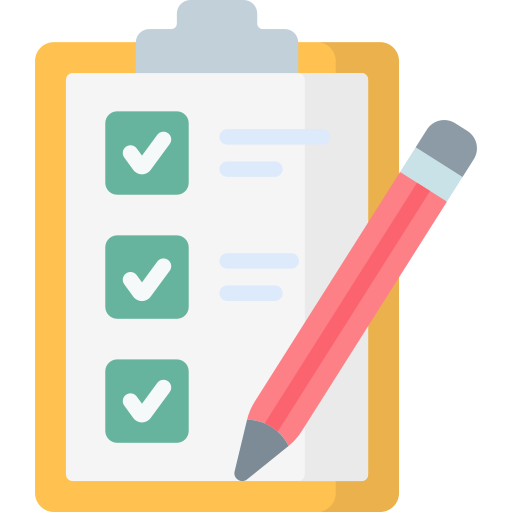
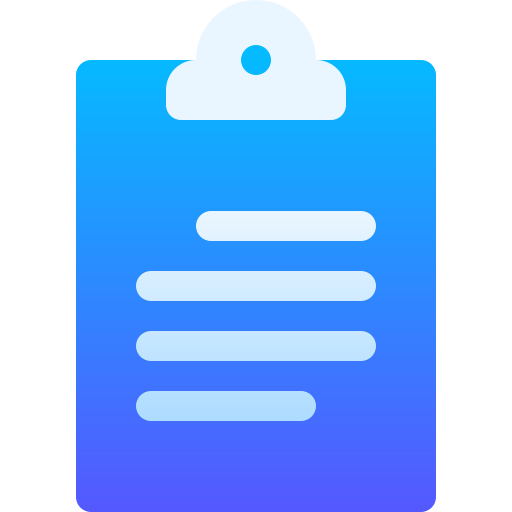
refact: cores e icones das telas exames e pets sofreram mudancas

diff --git a/src/app/exames/ExamesContent.tsx b/src/app/exames/ExamesContent.tsx
@@ -46,6 +46,7 @@ interface Veterinario {
   crv: string;
   id: string;
 }
+
 export function ExamesContent() {
   const [visualizarExames, setVisualizarExames] = useState(true);
   const [marcarExame, setMarcarExame] = useState(false);
@@ -136,8 +137,8 @@ export function ExamesContent() {
                   alt="prancheta"
                   unoptimized
                   src={prancheta}
-                  width={32}
-                  height={32}
+                  width={50}
+                  height={50}
                 />
                 <h1 className="text-2xl font-jetbrains">Exames</h1>
               </div>
@@ -146,34 +147,39 @@ export function ExamesContent() {
               </p>
             </div>
             <div className="flex flex-col gap-10">
-              <div className="w-2/3 flex items-center justify-center gap-5">
-                <InputComponent
-                  id="search"
-                  type="text"
-                  onchange={handleSearchExame}
-                  value={searchExame}
-                  maxLenght={11}
-                  label="Buscar Exames"
-                  placeholder="Digite o CPF do Tutor"
-                />
-                <button
-                  onClick={() => onClickSearchExame(searchExame)}
-                  className="py-2 px-4 flex items-center shadow-sm gap-2 mt-auto font-roboto bg-exames-color-600 rounded-xl text-white hover:bg-exames-color-800 active:bg-exames-color-500 transition-all"
-                >
-                  <FaSearch height={20} width={20} className="text-white" />
-                  <span className="text-nowrap">Pesquisar Exame</span>
-                </button>
-                <button
-                  onClick={onClickCleanSearchExame}
-                  className="py-2 px-4 flex items-center shadow-sm gap-2 mt-auto font-roboto bg-exames-color-600 rounded-xl text-white hover:bg-exames-color-800 active:bg-exames-color-500 transition-all"
-                >
-                  <FaTable height={20} width={20} className="text-white" />
-                  <span className="text-nowrap">Mostrar Todos os Exames</span>
-                </button>
+              <div className="w-full flex items-end justify-start gap-5">
+                <div className="w-1/3">
+                  <InputComponent
+                    id="search"
+                    type="text"
+                    onchange={handleSearchExame}
+                    value={searchExame}
+                    maxLenght={11}
+                    label="Buscar Exames"
+                    placeholder="Digite o CPF do Tutor"
+                  />
+                </div>
+
+                <div className="flex gap-4">
+                  <button
+                    onClick={() => onClickSearchExame(searchExame)}
+                    className="py-2 px-4 flex items-center shadow-sm gap-2 mt-auto font-roboto bg-exames-color-600 rounded-xl text-white hover:bg-exames-color-800 active:bg-exames-color-500 transition-all"
+                  >
+                    <FaSearch height={20} width={20} className="text-white" />
+                    <span className="text-nowrap">Pesquisar Exame</span>
+                  </button>
+                  <button
+                    onClick={onClickCleanSearchExame}
+                    className="py-2 px-4 flex items-center shadow-sm gap-2 mt-auto font-roboto bg-exames-color-600 rounded-xl text-white hover:bg-exames-color-800 active:bg-exames-color-500 transition-all"
+                  >
+                    <FaTable height={20} width={20} className="text-white" />
+                    <span className="text-nowrap">Mostrar Todos os Exames</span>
+                  </button>
+                </div>
               </div>
               <div className="flex bg-exames-color-600 rounded-md overflow-y-scroll p-4 gap-6 w-full flex-wrap max-h-96">
                 {activeSearch.trim() === ""
-                  ? examesArray
+                  ? [...examesArray]
                       .reverse()
                       .map((exames) => (
                         <ExameCard

diff --git a/src/app/pets/PetInfo.tsx b/src/app/pets/PetInfo.tsx
@@ -9,6 +9,7 @@ import pataBgDog from "../assets/images/pataBgDog.png";
 import pataBgGato from "../assets/images/pataBgGato.png";
 import dogProfile from "../assets/images/dogProfile.png";
 import catProfile from "../assets/images/gato.png";
+import { FaUserDoctor } from "react-icons/fa6";
 import { useRef, useState, type LegacyRef } from "react";
 import Image from "next/image";
 import lupaPet from "..//assets/images/lupaPet.png";
@@ -54,16 +55,16 @@ export function PetInfo({ petSelect, bottomDivRef }: PetInfoProps) {
       {/* Caso um pet esteja selecionado */}
       <div
         ref={bottomDivRef}
-        className={`${petSelect ? "bg-mascots-primary-600 p-6 rounded-lg shadow-lg" : "hidden"}`}
+        className={`${petSelect ? "bg-pets-color-300 p-6 rounded-lg shadow-lg" : "hidden"}`}
       >
         <div className="flex gap-6 items-start shadow-md rounded-lg px-4 py-5 bg-gray-100">
           <div
-            className={`${petSelect?.species === "Cachorro" ? "rounded-full mt-5 bg-mascots-primary-700 p-3" : "hidden"}`}
+            className={`${petSelect?.species === "Cachorro" ? "rounded-full mt-5 bg-pets-color-700 p-3" : "hidden"}`}
           >
             <Image alt="DogProfile" src={dogProfile} width={100} height={100} />
           </div>
           <div
-            className={`${petSelect?.species === "Gato" ? "rounded-full mt-5 bg-mascots-primary-700 p-3" : "hidden"}`}
+            className={`${petSelect?.species === "Gato" ? "rounded-full mt-5 bg-pets-color-700 p-3" : "hidden"}`}
           >
             <Image alt="catProfile" src={catProfile} width={100} height={100} />
           </div>
@@ -139,8 +140,8 @@ export function PetInfo({ petSelect, bottomDivRef }: PetInfoProps) {
           </div>
         </div>
         <div className="bg-gray-100 p-6 rounded-lg relative shadow-md mt-6 w-full">
-          <div className="flex  border-b-2 border-dashed border-mascots-primary-700 pb-2 mb-4 items-center gap-2">
-            <FaUser size={32} className="text-mascots-primary-800" />
+          <div className="flex  border-b-2 border-dashed border-pets-color-700 pb-2 mb-4 items-center gap-2">
+            <FaUser size={32} className="text-pets-color-600" />
             <h2 className="text-xl font-semibold text-gray-800">
               Informações do Tutor
             </h2>
@@ -199,14 +200,21 @@ export function PetInfo({ petSelect, bottomDivRef }: PetInfoProps) {
         <div className="w-full flex justify-around gap-10 mt-5">
           <Link
             href={"/consultas"}
-            className="px-5 py-3 flex items-center gap-1 bg-mascots-primary-800 hover:scale-105 max-w-fit text-gray-200 rounded-md font-semibold transition-all"
+            className="px-5 py-3 flex items-center gap-1 bg-mascots-primary-700 hover:bg-mascots-primary-800 hover:scale-105 max-w-fit text-white rounded-md font-semibold transition-all"
           >
-            <FaClipboardList size={24} />
+            <FaUserDoctor size={24} />
             Marcar Consulta
           </Link>
           <Link
+            href={"/exames"}
+            className="px-5 py-3 flex items-center gap-1 bg-exames-color-700 hover:bg-exames-color-800 hover:scale-105 max-w-fit text-white rounded-md font-semibold transition-all"
+          >
+            <FaClipboardList size={24} />
+            Prescrever Exame
+          </Link>
+          <Link
             href={"/internato"}
-            className="px-5 py-3 bg-internato-color-800 flex items-center gap-1 hover:scale-105 max-w-fit text-gray-200 rounded-md font-semibold transition-all"
+            className="px-5 py-3 bg-internato-color-700 hover:bg-internato-color-800 flex items-center gap-1 hover:scale-105 max-w-fit text-white rounded-md font-semibold transition-all"
           >
             <TbActivityHeartbeat size={24} />
             Internamento

diff --git a/src/app/pets/PetsContent.tsx b/src/app/pets/PetsContent.tsx
@@ -117,8 +117,8 @@ export function PetsContent() {
                   src={pata}
                   alt="PetIcon"
                   unoptimized
-                  width={40}
-                  height={40}
+                  width={50}
+                  height={50}
                 />
                 <h1 className="text-2xl font-jetbrains">Pets</h1>
               </div>
@@ -128,33 +128,38 @@ export function PetsContent() {
             </div>
 
             <div className="flex flex-col gap-10">
-              <div className="w-2/3 flex items-center justify-center gap-5">
-                <InputComponent
-                  id="search"
-                  type="text"
-                  onchange={handleSearchPet}
-                  value={searchPet}
-                  maxLenght={11}
-                  label="Buscar Pets"
-                  placeholder="Digite o CPF do Tutor"
-                />
-                <button
-                  onClick={() => onClickSearchPet(searchPet)}
-                  className="py-2 px-4 flex items-center  shadow-sm gap-2 w-fit mt-auto font-roboto bg-pets-color-600 rounded-xl text-white  hover:bg-pets-color-800 active:bg-pets-color-500 transition-all"
-                >
-                  <FaSearch height={20} width={20} className="text-white" />
-                  <span>Pesquisar</span>
-                </button>
-                <button
-                  onClick={onClickCleanSearchPet}
-                  className="py-2 px-4 flex items-center shadow-sm gap-2 mt-auto font-roboto bg-pets-color-600 rounded-xl text-white hover:bg-pets-color-800 active:bg-pets-color-500 transition-all"
-                >
-                  <FaTable height={20} width={20} className="text-white" />
-                  <span className="text-nowrap">Mostrar Todos</span>
-                </button>
+              <div className="w-full flex items-end justify-start gap-5">
+                <div className="w-1/3">
+                  <InputComponent
+                    id="search"
+                    type="text"
+                    onchange={handleSearchPet}
+                    value={searchPet}
+                    maxLenght={11}
+                    label="Buscar Pets"
+                    placeholder="Digite o CPF do Tutor"
+                  />
+                </div>
+
+                <div className="flex gap-4">
+                  <button
+                    onClick={() => onClickSearchPet(searchPet)}
+                    className="py-2 px-4 flex items-center  shadow-sm gap-2 w-fit mt-auto font-roboto bg-pets-color-600 rounded-xl text-white  hover:bg-pets-color-800 active:bg-pets-color-500 transition-all"
+                  >
+                    <FaSearch height={20} width={20} className="text-white" />
+                    <span>Pesquisar Pets</span>
+                  </button>
+                  <button
+                    onClick={onClickCleanSearchPet}
+                    className="py-2 px-4 flex items-center shadow-sm gap-2 mt-auto font-roboto bg-pets-color-600 rounded-xl text-white hover:bg-pets-color-800 active:bg-pets-color-500 transition-all"
+                  >
+                    <FaTable height={20} width={20} className="text-white" />
+                    <span className="text-nowrap">Mostrar Todos os Pets</span>
+                  </button>
+                </div>
               </div>
 
-              <div className="flex bg-pets-color-600 rounded-md overflow-y-scroll p-4 gap-6 w-full flex-wrap max-h-96">
+              <div className="flex bg-pets-color-300 rounded-md overflow-y-scroll p-4 gap-6 w-full flex-wrap max-h-96">
                 {activeSearch.trim() === ""
                   ? [...petsArray]
                       .reverse()

diff --git a/tailwind.config.ts b/tailwind.config.ts
@@ -27,7 +27,7 @@ const config: Config = {
         "main-content": "54rem",
       },
       width: {
-        "cards-pets": "calc(25% - 1.5rem)",
+        "cards-pets": "calc(33% - 1.5rem)",
         "custom-width": "58rem", // 1091px em rem
       },
       height: {
@@ -44,17 +44,17 @@ const config: Config = {
 
         //600 default
         "pets-color": {
-          "50": "#fff7ed",
-          "100": "#feedd6",
-          "200": "#fcd7ac",
-          "300": "#fabb77",
-          "400": "#f79340",
-          "500": "#f47216",
-          "600": "#e55a11",
-          "700": "#be4410",
-          "800": "#973615",
-          "900": "#7a2e14",
-          "950": "#421508",
+          "50": "#fdf5ef",
+          "100": "#fbe6d9",
+          "200": "#f5cbb3",
+          "300": "#efa882",
+          "400": "#e67244",
+          "500": "#e2592d",
+          "600": "#d34223",
+          "700": "#af311f",
+          "800": "#8c2920",
+          "900": "#71241d",
+          "950": "#3d0f0d",
         },
         //800 default
         "internato-color": {

diff --git a/src/app/exames/ExamesForms.tsx b/src/app/exames/ExamesForms.tsx
@@ -5,6 +5,8 @@ import { v4 as uuidv4 } from "uuid";
 import { SelectExamType } from "./SelectExamType";
 import { SelectPet } from "./SelectPet";
 import { TextArea } from "./TextArea";
+import { IoMdAddCircle } from "react-icons/io";
+import { FaClipboard } from "react-icons/fa";
 
 interface Tutor {
   name: string;
@@ -224,6 +226,7 @@ export function ExamesForms({ examesArray, setExamesArray }: ExamesFormsProps) {
           onClick={handleAddExame}
           className="bg-exames-color-700 flex justify-center gap-2 text-white w-fit px-6 py-4 rounded-lg hover:bg-exames-color-900 hover:scale-105 transition-all active:bg-exames-color-600 active:text-black"
         >
+          <FaClipboard size={24} />
           Prescrever Exame
         </button>
       </div>

diff --git a/src/app/exames/ExamesInfo.tsx b/src/app/exames/ExamesInfo.tsx
@@ -51,10 +51,10 @@ export function ExamesInfo({ exameSelect, bottomDivRef }: ExamesInfoProps) {
       {/* Caso um exame esteja selecionado */}
       <div
         ref={bottomDivRef}
-        className={`${exameSelect ? "bg-mascots-primary-600 p-6 flex flex-col gap-4 rounded-lg shadow-lg" : "hidden"}`}
+        className={`${exameSelect ? "bg-exames-color-600 p-6 flex flex-col gap-4 rounded-lg shadow-lg" : "hidden"}`}
       >
         <div className="flex gap-6 items-start shadow-md object-cover rounded-lg px-4 py-5 bg-gray-100">
-          <div className="rounded-full mt-5 bg-mascots-primary-700 p-5">
+          <div className="rounded-full mt-5 bg-exames-color-700 p-5">
             <Image
               alt="examesImage"
               src={exames}

diff --git a/src/app/exames/SelectExamType.tsx b/src/app/exames/SelectExamType.tsx
@@ -38,12 +38,10 @@ export function SelectExamType({
         <option value="tipo">Tipo de Exame</option>
         <option value="Hemograma">🩸 Hemograma</option>
         <option value="Bioquímico">🧪 Bioquímico</option>
-        <option value="Avaliação de lâminas citopatológicas">
+        <option value="Ava. Citopatológicas">
           🧫 Avaliação de lâminas citopatológicas
         </option>
-        <option value="Parasitológico de pele">
-          🦠 Parasitológico de pele
-        </option>
+        <option value="Parasito. Pele">🦠 Parasitológico de pele</option>
         <option value="Urinalise">🧪 Urinalise</option>
       </select>
     </div>

diff --git a/src/app/pets/PetCard.tsx b/src/app/pets/PetCard.tsx
@@ -33,7 +33,7 @@ export function PetCard({
     <>
       <div
         onClick={onclick}
-        className=" bg-pets-color-800 active:scale-95 cursor-pointer hover:scale-105 transition-all text-gray-800 flex justify-between h-fit flex-col w-cards-pets rounded-lg overflow-hidden shadow-md"
+        className=" bg-pets-color-600 active:scale-95 cursor-pointer hover:scale-105 transition-all text-gray-800 flex justify-between h-fit flex-col w-cards-pets rounded-lg overflow-hidden shadow-md"
       >
         <div
           className={`${specie === "Gato" ? "text-white flex items-center gap-3 px-3 py-4" : "hidden"}`}

diff --git a/src/app/pets/PetForms.tsx b/src/app/pets/PetForms.tsx
@@ -157,7 +157,7 @@ export function PetForms({ setPetsArray }: PetFormsProps) {
             onchange={handleTutorPhoneChange}
             value={pet.tutor.phone}
             id="phoneTutor"
-            maxLenght={10}
+            maxLenght={11}
             type="text"
             placeholder="ex: (81)12345678"
             label="Contato"
